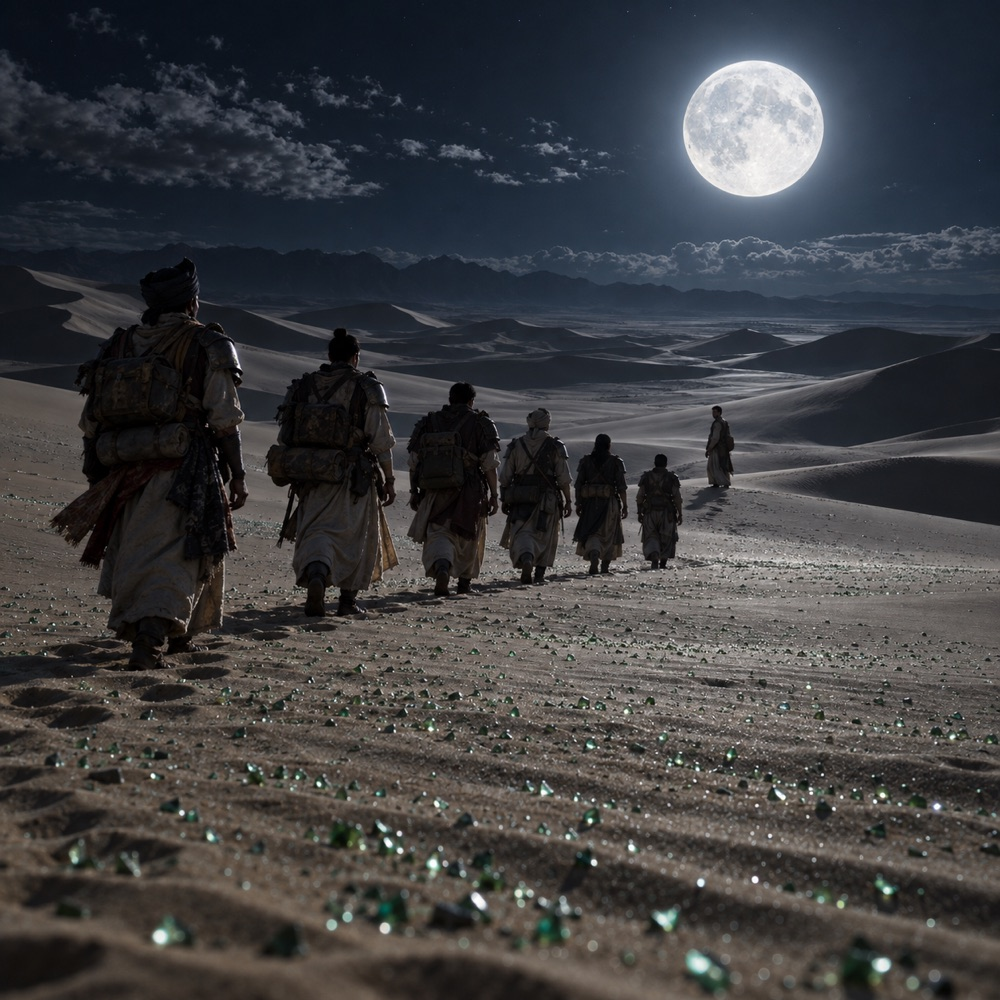
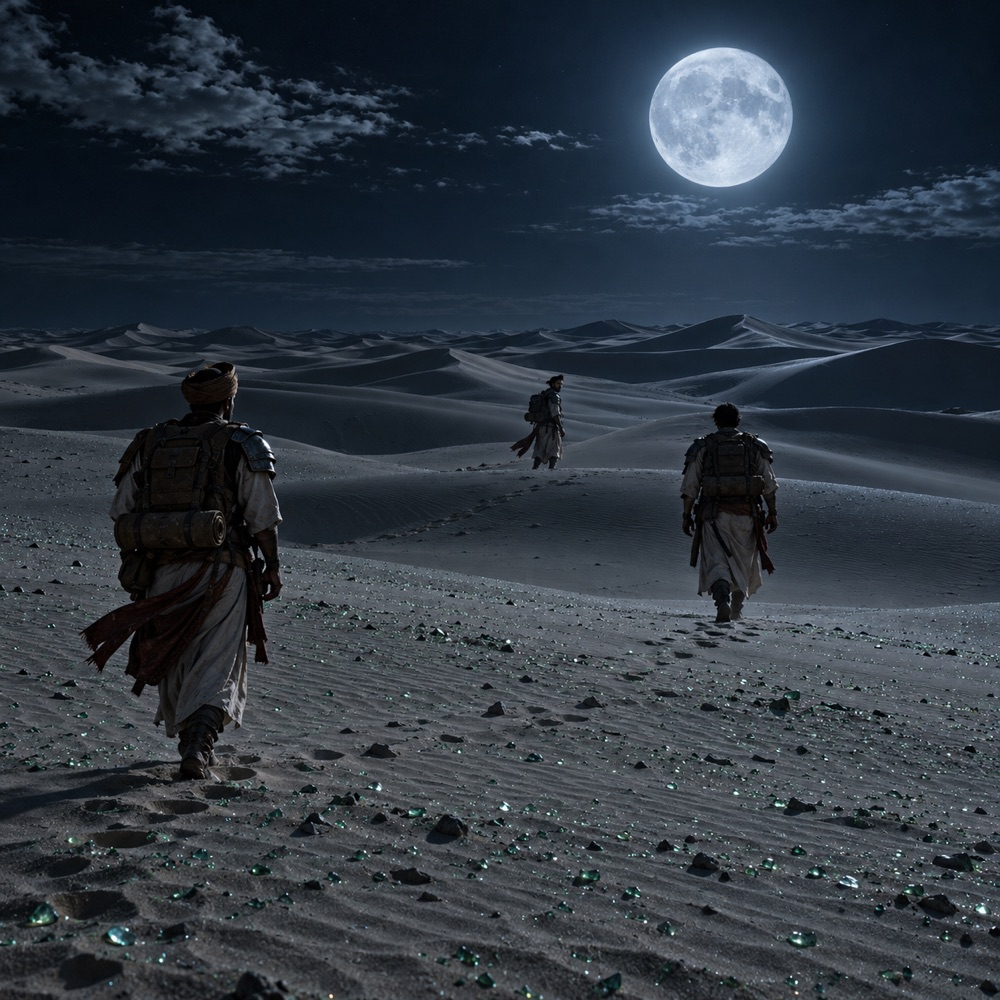
Eight character sheets, and four corrections
The sheets work. White ground, three views at identical scale on one
ground line, costume consistent across all three — which is the entire
point and the only thing a filename cannot tell you.

Iron Legs is the clearest proof: the salvaged power-armour legs are
articulated the same way in front, profile and back, which is exactly
what a model sheet exists to pin down. Big Ben's board panels, clock
face and spire survive the rotation. Orange Peng's yellow boiler suit
stays knotted at the waist from every angle.

Kong needed one retry and the runner handled it properly: the first
render put the spectacles only on the profile head and left the front
face bare, so it rejected it UNCOLLECTED and asked for a regenerate
rather than filing a half-right sheet. The glasses are the first thing
anyone notices about him; a sheet without them is worse than no sheet.

Three caveats it reported and I agree are not worth a reroll: Slink's
eyepatch reads a little like a dark lens in profile and he carries no
crutch (a crutch is not costume); Two's stitches read reddish rather
than black, which is arguably truer for a healing wound; Two's hair is
in a bun in profile and back but looks slicked in front.

The four corrections all landed. The driving school's clothes are faded,
patched and mended now rather than laundered. The emerald sea is three
pahlawan — though the lead figure reads as roughly turned rather than
unmistakably looking back, which is the one thing still soft. The
[…]

diff --git a/src/bestiary.js b/src/bestiary.js
@@ -955,7 +955,7 @@ export const bestiaryDatabase = {
     "name": "Giant Leeches",
     "type": "monster",
     "creature_type": "Mutated Creature",
-    "icon": "",
+    "icon": "art/bestiary/giant_leeches.jpg",
     "image_prompt": "SEVERAL giant jungle leeches together, five or six of them, not one. Each the length of a hand, glossy and dark olive-brown with a thin amber stripe down the back, bodies ringed and muscular. Some are stretched out flat on wet leaf litter, one or two are reared up on their rear suckers and casting about blindly for warmth, and one has gone fat and dark red with blood. On the wet forest floor beside a muddy jungle trail.",
     "description": "You never find them; they find you, and you usually notice by the weight, or the cold, or a sock gone dark and heavy at the top. They go on so quietly that nobody feels them go on, and what they leave keeps bleeding for hours after they have come off. Pull one off and its mouth stays in the wound, so the only clean way is a burning cigarette or a lit match held to its body until it drops away.",
     "notes": "Hazard, not an encounter. Run it as an environmental complication rather than a fight. Whenever a character wades a flooded jungle floor, a wet drain or standing water in the rain, roll Attach against each character once per scene (or once per hour of travel). Attach is silent. The victim notices only on a PE check, which the GM may call at any point. Drain costs 1 HP a turn while attached. Burning it off makes it let go and it takes fire damage; the wound then bleeds at the minor rate (1 a turn) for several hours. Pulling it off leaves the mouth in, and the wound bleeds at double rate until cauterised or stitched.",
@@ -2846,7 +2846,7 @@ export const bestiaryDatabase = {
     "name": "Swarm of Keluang",
     "type": "monster",
     "creature_type": "Mutated Creature",
-    "icon": "",
+    "icon": "art/bestiary/swarm_of_keluang.jpg",
     "image_prompt": "A colony of flying foxes, each the size of a small child, hanging in a loose cluster from the bare branches of ONE dead tree. ABOUT TWENTY OF THEM, countable at a glance — not hundreds, not a black mass, not a tree furred over with bodies. Rust-brown fur, leathery folded wings, long hooked claws, fox-like muzzles, several with their heads turned towards the viewer. Three or four are in the air just clear of the branches. A flooded padi field behind.",
     "description": "You hear the roost before you see it: a dry, wet rustle from a dead tree or a ruined hall, like rain that has forgotten how to stop. Wake them with noise, light or a thrown stone and the whole colony comes off the branches at once, a cloud that fills the space and cannot be hit with a single shot. Anyone it touches takes the roost fever home with them, and the advice is the same as it always was: wash, burn the clothes, and do not go back in.",
     "notes": "One creature acting as one unit. It fills a single space (a tree crown, a hall's roof beams) and has no body or face to aim at. Single-target attacks (a bullet, a blade, a laser) run into its high DT and DR and do little. Fire and area effects (grenades, explosives, a torch thrown into the roof) take the full value. Asleep until disturbed by noise, light or fire in the roost; it acts first on the round after it wakes. Has 3 attacks. Below half HP it has thinned out and Swarm Bite drops to 1d4+1.",

diff --git a/src/characterSheets.js b/src/characterSheets.js
@@ -10,14 +10,14 @@
 // so the sheet and every scene they appear in are built from one source.
 
 export const CHARACTER_SHEETS = [
-  { id: "big_ben", name: "Big Ben", note: "Gergasi in the clock-tower cosplay", image_url: "" },
-  { id: "janson_peng", name: "Janson Peng", note: "the short Peng brother, seio", image_url: "" },
-  { id: "orange_peng", name: "Orange Peng", note: "the large Peng brother, gentle", image_url: "" },
-  { id: "farmer_nick_peng", name: "Farmer Nick Peng", note: "ghoul, Bandawang's largest farmer", image_url: "" },
-  { id: "slink_tan", name: "Slink Tan", note: "1414 Red Pole, gun leg, eyepatch", image_url: "" },
-  { id: "iron_legs", name: "Iron Legs", note: "PC — the Delusional Master", image_url: "" },
-  { id: "kong", name: "Kong", note: "PC — the Gergasi Scholar", image_url: "" },
-  { id: "two", name: "Two", note: "PC — the Fallen Prince", image_url: "" }
+  { id: "big_ben", name: "Big Ben", note: "Gergasi in the clock-tower cosplay", image_url: "art/sheet_big_ben.jpg" },
+  { id: "janson_peng", name: "Janson Peng", note: "the short Peng brother, seio", image_url: "art/sheet_janson_peng.jpg" },
+  { id: "orange_peng", name: "Orange Peng", note: "the large Peng brother, gentle", image_url: "art/sheet_orange_peng.jpg" },
+  { id: "farmer_nick_peng", name: "Farmer Nick Peng", note: "ghoul, Bandawang's largest farmer", image_url: "art/sheet_farmer_nick_peng.jpg" },
+  { id: "slink_tan", name: "Slink Tan", note: "1414 Red Pole, gun leg, eyepatch", image_url: "art/sheet_slink_tan.jpg" },
+  { id: "iron_legs", name: "Iron Legs", note: "PC — the Delusional Master", image_url: "art/sheet_iron_legs.jpg" },
+  { id: "kong", name: "Kong", note: "PC — the Gergasi Scholar", image_url: "art/sheet_kong.jpg" },
+  { id: "two", name: "Two", note: "PC — the Fallen Prince", image_url: "art/sheet_two.jpg" }
 ];
 
 export function getCharacterSheet(id) {

diff --git a/src/vibeScenes.js b/src/vibeScenes.js
@@ -16,7 +16,7 @@ export const VIBE_SCENES = [
     name: "The Driving School",
     blurb:
       "Learning to drive at the end of the world, with a clipboard and strong opinions.",
-    image_url: ""
+    image_url: "art/vibe_driving_school.jpg"
   },
   {
     id: "big_ben_taken_seriously",
@@ -30,7 +30,7 @@ export const VIBE_SCENES = [
     name: "Crossing the Emerald Sea",
     blurb:
       "Pahlawan on foot across the Chukai at night, and the sand is full of green glass.",
-    image_url: ""
+    image_url: "art/vibe_crossing_the_emerald_sea.jpg"
   }
 ];
 
